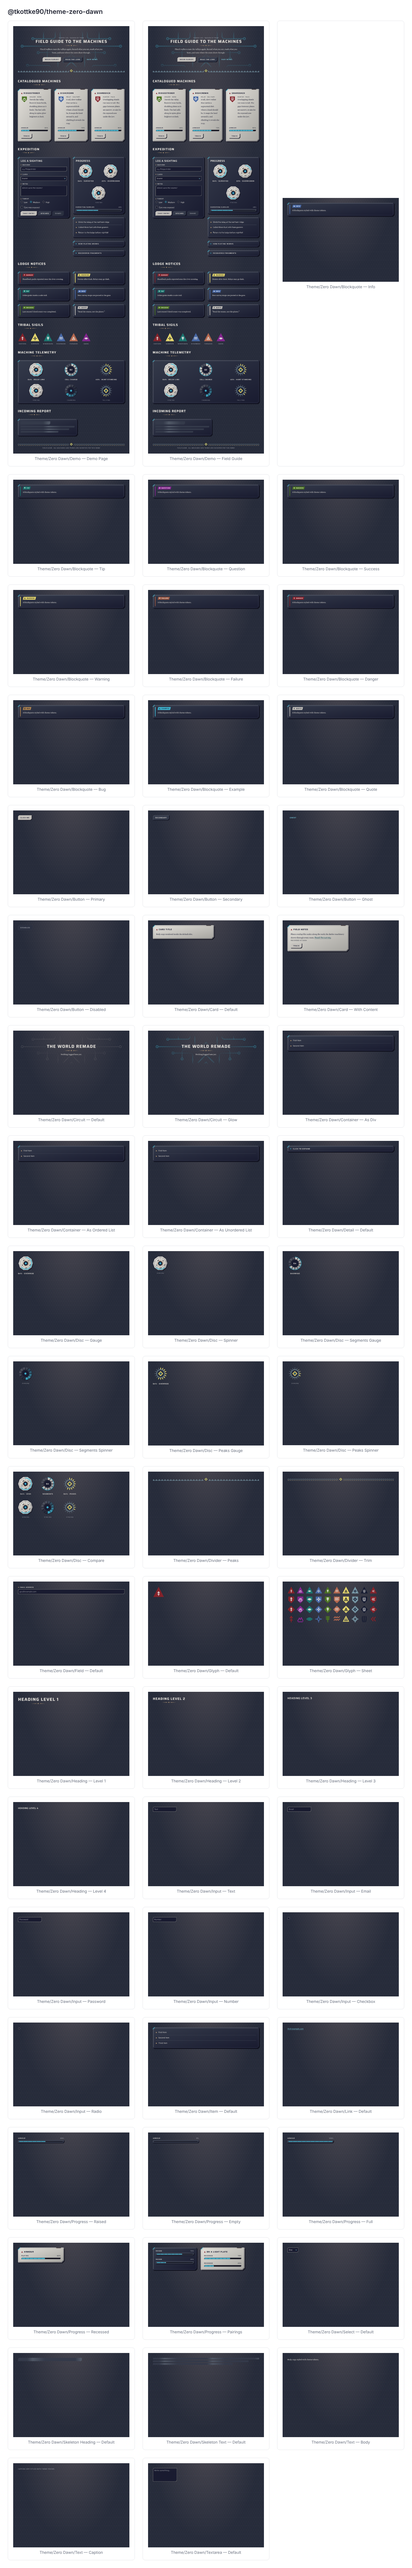
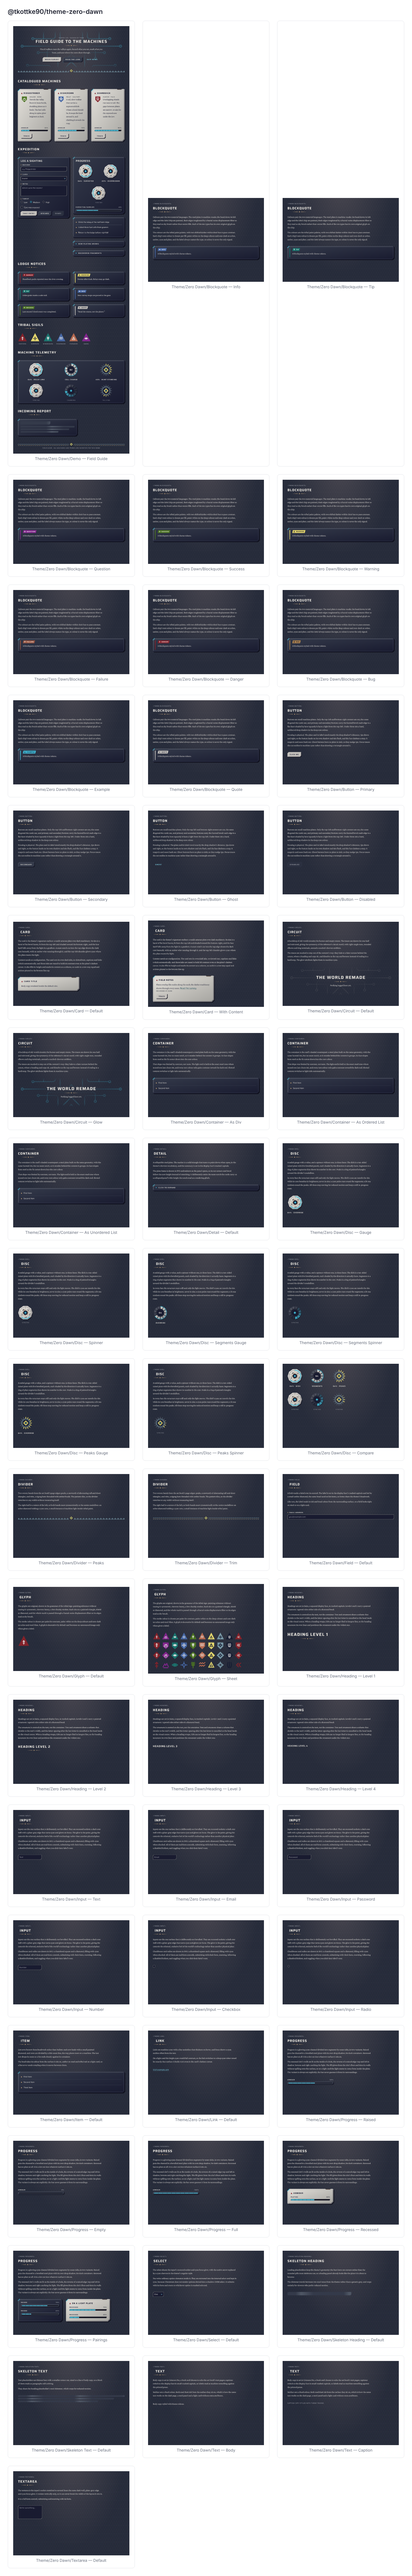
Add design notes above each component's Storybook stories
Every component's stories now open with its tag, a title and a short
description of how and why it was designed the way it is, rendered by a
shared preview decorator from a parameters.intro block on each stories
file's meta (built from the theme's own heading and text components).
The Demo and the Disc comparison are left bare.

Also stop Storybook listing the exported demoPage helper as a duplicate
Demo story, via excludeStories.

Claude-Session: https://claude.ai/code/session_01Fmf8fXyVEC1bYsaCeYAn9e

diff --git a/packages/theme-zero-dawn/.storybook/preview.ts b/packages/theme-zero-dawn/.storybook/preview.ts
@@ -9,15 +9,43 @@ const pageStyle = document.createElement("style");
 pageStyle.textContent = themeStyles.cssText;
 document.head.appendChild(pageStyle);
 
+/**
+ * A component's design notes, shown above every one of its stories. Set
+ * `parameters.intro` on a stories file's `meta`; set it to `null` on a story
+ * to leave that story bare.
+ */
+export interface StoryIntro {
+  /** The custom element's tag, shown as an eyebrow, e.g. "theme-button". */
+  tag: string;
+  title: string;
+  /** One or more paragraphs on how the element was designed. */
+  description: string[];
+}
+
 const preview: Preview = {
   decorators: [
-    (story) => html`
-      <div
-        style="background: var(--background-image-tri-grid), radial-gradient(ellipse at 50% -20%, color-mix(in srgb, var(--color-haze) 16%, transparent), transparent 65%), var(--color-bg); color: var(--color-text); min-height: 100vh; padding: 2.5rem; font-family: var(--font-serif);"
-      >
-        ${story()}
-      </div>
-    `,
+    (story, context) => {
+      const intro = context.parameters["intro"] as StoryIntro | null | undefined;
+      return html`
+        <div
+          style="background: var(--background-image-tri-grid), radial-gradient(ellipse at 50% -20%, color-mix(in srgb, var(--color-haze) 16%, transparent), transparent 65%), var(--color-bg); color: var(--color-text); min-height: 100vh; padding: 2.5rem; font-family: var(--font-serif);"
+        >
+          ${
+            intro
+              ? html`<header
+                  class="story-intro"
+                  style="max-width: 44rem; margin-bottom: 2.5rem; display: flex; flex-direction: column; gap: 0.75rem"
+                >
+                  <theme-text variant="caption">&lt;${intro.tag}&gt;</theme-text>
+                  <theme-heading level="2">${intro.title}</theme-heading>
+                  ${intro.description.map((p) => html`<theme-text>${p}</theme-text>`)}
+                </header>`
+              : null
+          }
+          ${story()}
+        </div>
+      `;
+    },
   ],
 };
 

diff --git a/packages/theme-zero-dawn/src/theme-disc.stories.ts b/packages/theme-zero-dawn/src/theme-disc.stories.ts
@@ -4,6 +4,16 @@ import "./theme-disc.js";
 
 const meta: Meta = {
   title: "Theme/Zero Dawn/Disc",
+  parameters: {
+    intro: {
+      tag: "theme-disc",
+      title: "Disc",
+      description: [
+        "A radial gauge with a value, and a spinner without one, in three faces. The dish is a ten-sided raised plate with five bevelled panels, each shaded by the direction it actually faces. Segments is a ring of plate segments that shows its number in the core. Peaks is a ring of painted triangles around the divider's medallion.",
+        "In every face the structure stays still and only the light moves. The dish's cyan arc travels the rim while its core breathes in brightness, never in size; a cyan pulse runs round the segments; a lit run ratchets round the peaks. All three stop moving for reduced motion and keep a still in-progress state.",
+      ],
+    },
+  },
   render: (args) =>
     html`<theme-disc
       .value=${args["value"]}
@@ -30,6 +40,7 @@ export const PeaksSpinner: Story = {
 
 /** All three faces side by side, as a gauge (top) and a spinner (bottom). */
 export const Compare: Story = {
+  parameters: { intro: null },
   render: () =>
     html`<div
       style="display: grid; grid-template-columns: repeat(3, auto); gap: 2.5rem 3.5rem; justify-content: start"

diff --git a/packages/theme-zero-dawn/src/theme-card.stories.ts b/packages/theme-zero-dawn/src/theme-card.stories.ts
@@ -7,6 +7,16 @@ import "./theme-button.js";
 
 const meta: Meta = {
   title: "Theme/Zero Dawn/Card",
+  parameters: {
+    intro: {
+      tag: "theme-card",
+      title: "Card",
+      description: [
+        "The card is the theme's signature surface: a sunlit armour plate over dark machinery. Its rim is a band of flat bevel facets, lit from the top-left and shaded toward the bottom-right, and the face itself falls away from the light in a gradient. A seam notch cut into the top edge shows the dark core beneath, with an amber wire running through it, and the top-left chamfer glows cyan where the plate meets the light.",
+        "Content needs no configuration. The card sets its own dark inks, so slotted text, captions and links switch automatically, and those inks are tuned to hold AA contrast even at the plate's darkest corner. It also fills its height and stacks its content as a column, so cards in a row stay equal and actions pinned to the bottom line up.",
+      ],
+    },
+  },
   render: (args) =>
     html`<div style="max-width: 32rem">
       <theme-card heading=${args["heading"]}>${args["body"]}</theme-card>

diff --git a/packages/theme-zero-dawn/src/theme-blockquote.stories.ts b/packages/theme-zero-dawn/src/theme-blockquote.stories.ts
@@ -4,6 +4,16 @@ import "./theme-blockquote.js";
 
 const meta: Meta = {
   title: "Theme/Zero Dawn/Blockquote",
+  parameters: {
+    intro: {
+      tag: "theme-blockquote",
+      title: "Blockquote",
+      description: [
+        "Callouts pair the two material languages. The steel plate is machine-made; the band down its left edge and the label chip are painted, their edges roughened by a fractal-noise displacement filter so they read as dry brush rather than vector fills. Each of the ten types has its own original glyph on the chip.",
+        "The colours are the tribal paint palette, with two shifted darker within their hue to pass contrast. Each chip's text colour is chosen per fill, paint-white on the deep colours and core-dark on ochre, amber, cyan and plate, and the label always names the type, so colour is never the only signal.",
+      ],
+    },
+  },
   render: (args) =>
     html`<theme-blockquote type=${args["type"]}>${args["content"]}</theme-blockquote>`,
   args: { content: "A blockquote styled with theme tokens." },

diff --git a/packages/theme-zero-dawn/src/theme-button.stories.ts b/packages/theme-zero-dawn/src/theme-button.stories.ts
@@ -4,6 +4,16 @@ import "./theme-button.js";
 
 const meta: Meta = {
   title: "Theme/Zero Dawn/Button",
+  parameters: {
+    intro: {
+      tag: "theme-button",
+      title: "Button",
+      description: [
+        "Buttons are small machine plates. Only the top-left and bottom-right corners are cut, the same diagonal the cards use, and primary and secondary buttons carry the faceted bevel: each edge is a flat facet shaded by how squarely it faces a light from the top-left. Under them sits a hard, unblurred drop shadow in the deep core colour.",
+        "Pressing is physical. The plate and its label travel exactly the drop shadow's distance, 3px down and right, so the button lands on its own shadow and sits flush, and the face darkens a step. It snaps in and eases back out. Ghost buttons have no plate to sink, so they nudge 1px. Focus traces the cut outline in machine cyan rather than drawing a rectangle around it.",
+      ],
+    },
+  },
   render: (args) =>
     html`<theme-button
       label=${args["label"]}

diff --git a/packages/theme-zero-dawn/src/theme-progress.stories.ts b/packages/theme-zero-dawn/src/theme-progress.stories.ts
@@ -6,6 +6,16 @@ import "./theme-container.js";
 
 const meta: Meta = {
   title: "Theme/Zero Dawn/Progress",
+  parameters: {
+    intro: {
+      tag: "theme-progress",
+      title: "Progress",
+      description: [
+        "Progress is a glowing cyan channel divided into segments by seam ticks, in two variants. Raised puts the channel in a bevelled steel plate with its own drop shadow, for dark containers. Recessed has no plate at all: it is a slot cut into whatever surface it sits on.",
+        "The recessed slot's walls are lit as the inside of a hole, the reverse of a raised edge: top and left in shadow, bottom and right catching the light. The fill glows from the slot's floor and tints its walls without spilling onto the surface, so on a light card the light seems to come from inside the plate. The variant is always set explicitly; the bar never guesses it from its surroundings.",
+      ],
+    },
+  },
   render: (args) =>
     html`<div style="max-width: 24rem">
       <theme-progress

diff --git a/packages/theme-zero-dawn/src/theme-input.stories.ts b/packages/theme-zero-dawn/src/theme-input.stories.ts
@@ -4,6 +4,16 @@ import "./theme-input.js";
 
 const meta: Meta = {
   title: "Theme/Zero Dawn/Input",
+  parameters: {
+    intro: {
+      tag: "theme-input",
+      title: "Input",
+      description: [
+        "Inputs are the one surface that is deliberately not bevelled. They are recessed sockets: a dark core well with a plate-grey edge that turns cyan and glows on focus. The glow is the point, giving the controls the ethereal, emissive feel of the world's technology rather than another physical plate.",
+        "Checkboxes and radios are drawn in SVG: a chamfered square and a diamond, filling with cyan when checked. All of them are real form controls, submitting with their form, resetting, following a disabled fieldset, and toggling when you click their label's text.",
+      ],
+    },
+  },
   render: (args) =>
     html`<theme-input type=${args["type"]} placeholder=${args["placeholder"]}></theme-input>`,
   args: { placeholder: "" },

diff --git a/packages/theme-zero-dawn/src/theme-heading.stories.ts b/packages/theme-zero-dawn/src/theme-heading.stories.ts
@@ -4,6 +4,16 @@ import "./theme-heading.js";
 
 const meta: Meta = {
   title: "Theme/Zero Dawn/Heading",
+  parameters: {
+    intro: {
+      tag: "theme-heading",
+      title: "Heading",
+      description: [
+        "Headings are set in Saira, a squared display face, in tracked capitals. Levels 1 and 2 carry a painted ornament: tapered rules either side of a diamond bead.",
+        "The ornament is centred on the text, not the container. Text and ornament share a column that shrinks to the text's width, and the letter-spacing after the last letter is cancelled so the bead lands on the visual centre. When a heading wraps, CSS can no longer find its longest line, so the heading measures its own lines and positions the ornament under the widest one.",
+      ],
+    },
+  },
   render: (args) =>
     html`<theme-heading level=${args["level"]}>Heading level ${args["level"]}</theme-heading>`,
   args: { level: 1 },

diff --git a/packages/theme-zero-dawn/src/theme-container.stories.ts b/packages/theme-zero-dawn/src/theme-container.stories.ts
@@ -5,6 +5,16 @@ import "./theme-item.js";
 
 const meta: Meta = {
   title: "Theme/Zero Dawn/Container",
+  parameters: {
+    intro: {
+      tag: "theme-container",
+      title: "Container",
+      description: [
+        "The container is the card's shaded counterpart: a steel plate built on the same geometry, with the same faceted rim, but no seam notch, so it recedes behind the content it groups. Its face slopes from steel at the lit corner down into the core colour.",
+        "That slope was limited by contrast, not taste. The light end is held at the exact steel tone where muted text just clears AA, and every text colour only gains contrast toward the dark end. Slotted content switches to light inks automatically.",
+      ],
+    },
+  },
   render: (args) => html`
     <theme-container as=${args["as"]}>
       <theme-item as=${args["as"] === "div" ? "div" : "li"}>First item</theme-item>

diff --git a/packages/theme-zero-dawn/src/theme-circuit.stories.ts b/packages/theme-zero-dawn/src/theme-circuit.stories.ts
@@ -6,6 +6,16 @@ import "./theme-text.js";
 
 const meta: Meta = {
   title: "Theme/Zero Dawn/Circuit",
+  parameters: {
+    intro: {
+      tag: "theme-circuit",
+      title: "Circuit",
+      description: [
+        "A backdrop of old-world circuitry for heroes and empty states. The traces are drawn for one half and mirrored, giving the symmetry of the reference's circuit motif, with right-angle runs, rounded elbows and ring terminals, around a stacked-chevron emblem.",
+        "The traces are masked to stay out of the content's way: they fade to a faint texture behind the centre, where a heading and copy sit, and dissolve at the top and bottom instead of ending in a hard crop. The glow attribute lights them in machine cyan.",
+      ],
+    },
+  },
   render: (args) =>
     html`<theme-circuit ?glow=${args["glow"]}>
       <theme-heading level="1">The world remade</theme-heading>

diff --git a/packages/theme-zero-dawn/src/theme-divider.stories.ts b/packages/theme-zero-dawn/src/theme-divider.stories.ts
@@ -4,6 +4,16 @@ import "./theme-divider.js";
 
 const meta: Meta = {
   title: "Theme/Zero Dawn/Divider",
+  parameters: {
+    intro: {
+      tag: "theme-divider",
+      title: "Divider",
+      description: [
+        "Two woven bands from the art book's page edges: peaks, a sawtooth of alternating tall and short triangles, and trim, a zigzag hem threaded with amber beads. The pattern tiles, so the divider stretches to any width without measuring itself.",
+        "The right half is a mirror of the left, so both bands meet symmetrically at the centre medallion: an ochre diamond holding a cyan core, a small instance of machine light inside tribal paint.",
+      ],
+    },
+  },
   render: (args) => html`<theme-divider variant=${args["variant"]}></theme-divider>`,
   args: { variant: "peaks" },
   argTypes: { variant: { control: "select", options: ["peaks", "trim"] } },

diff --git a/packages/theme-zero-dawn/src/theme-glyph.stories.ts b/packages/theme-zero-dawn/src/theme-glyph.stories.ts
@@ -5,6 +5,16 @@ import { GLYPHS } from "./glyphs.js";
 
 const meta: Meta = {
   title: "Theme/Zero Dawn/Glyph",
+  parameters: {
+    intro: {
+      tag: "theme-glyph",
+      title: "Glyph",
+      description: [
+        "The glyphs are original, drawn in the grammar of the tribal sign-painting reference without tracing it: symmetric, chevron-heavy, a few chunky strokes. Each sits on a painted triangle, shield or diamond, and the whole mark is passed through a fractal-noise displacement filter so its edges read as dry brush.",
+        "The stroke colour is chosen per paint for contrast, paint-white on the deep colours and core-dark on ochre and steel-blue. A glyph is decorative by default and becomes an announced image only when given a label.",
+      ],
+    },
+  },
   render: (args) =>
     html`<theme-glyph
       name=${args["name"]}
